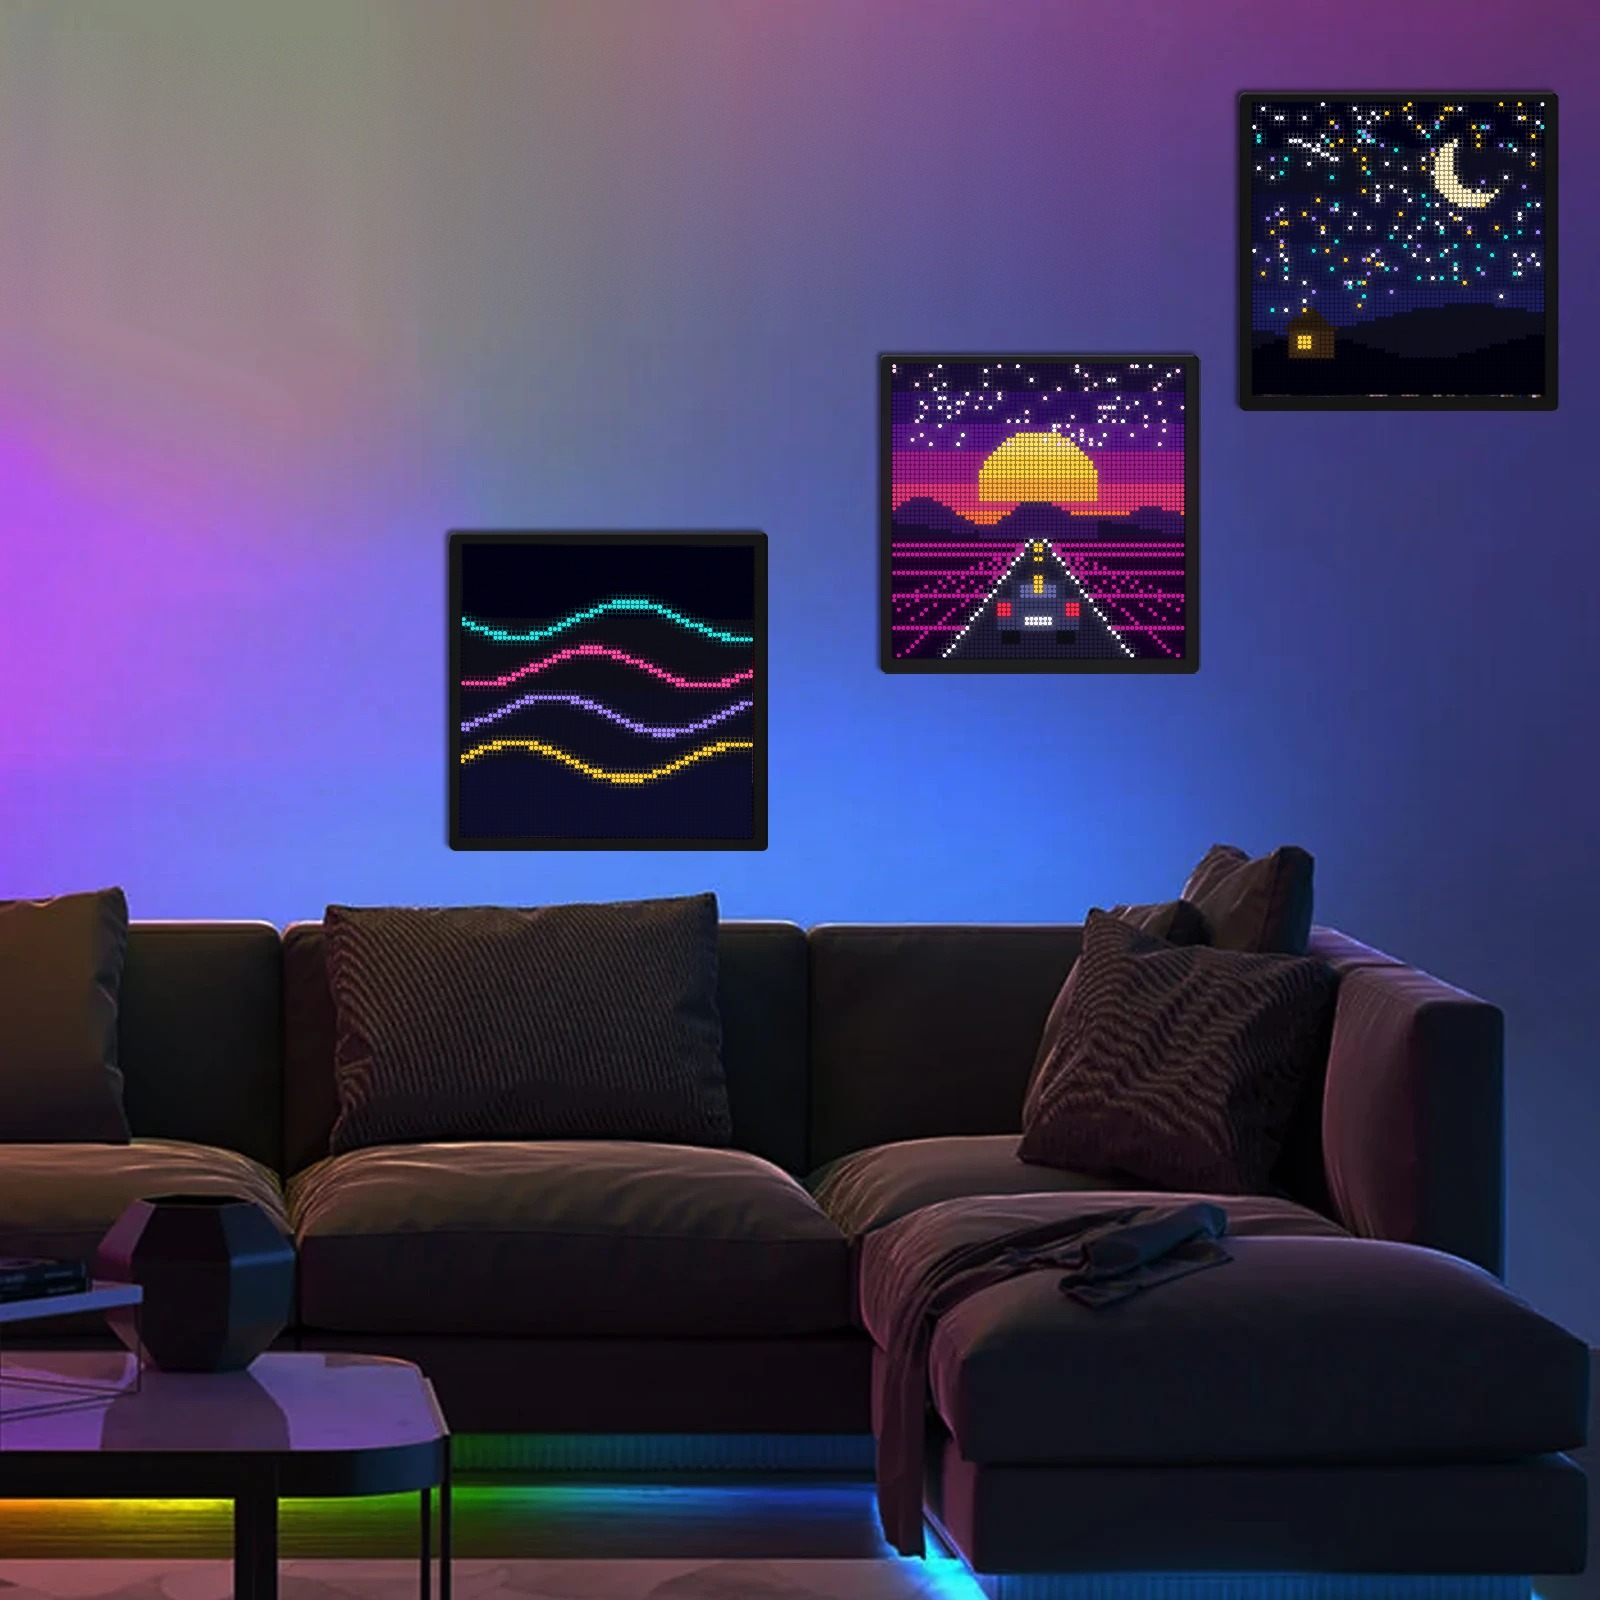
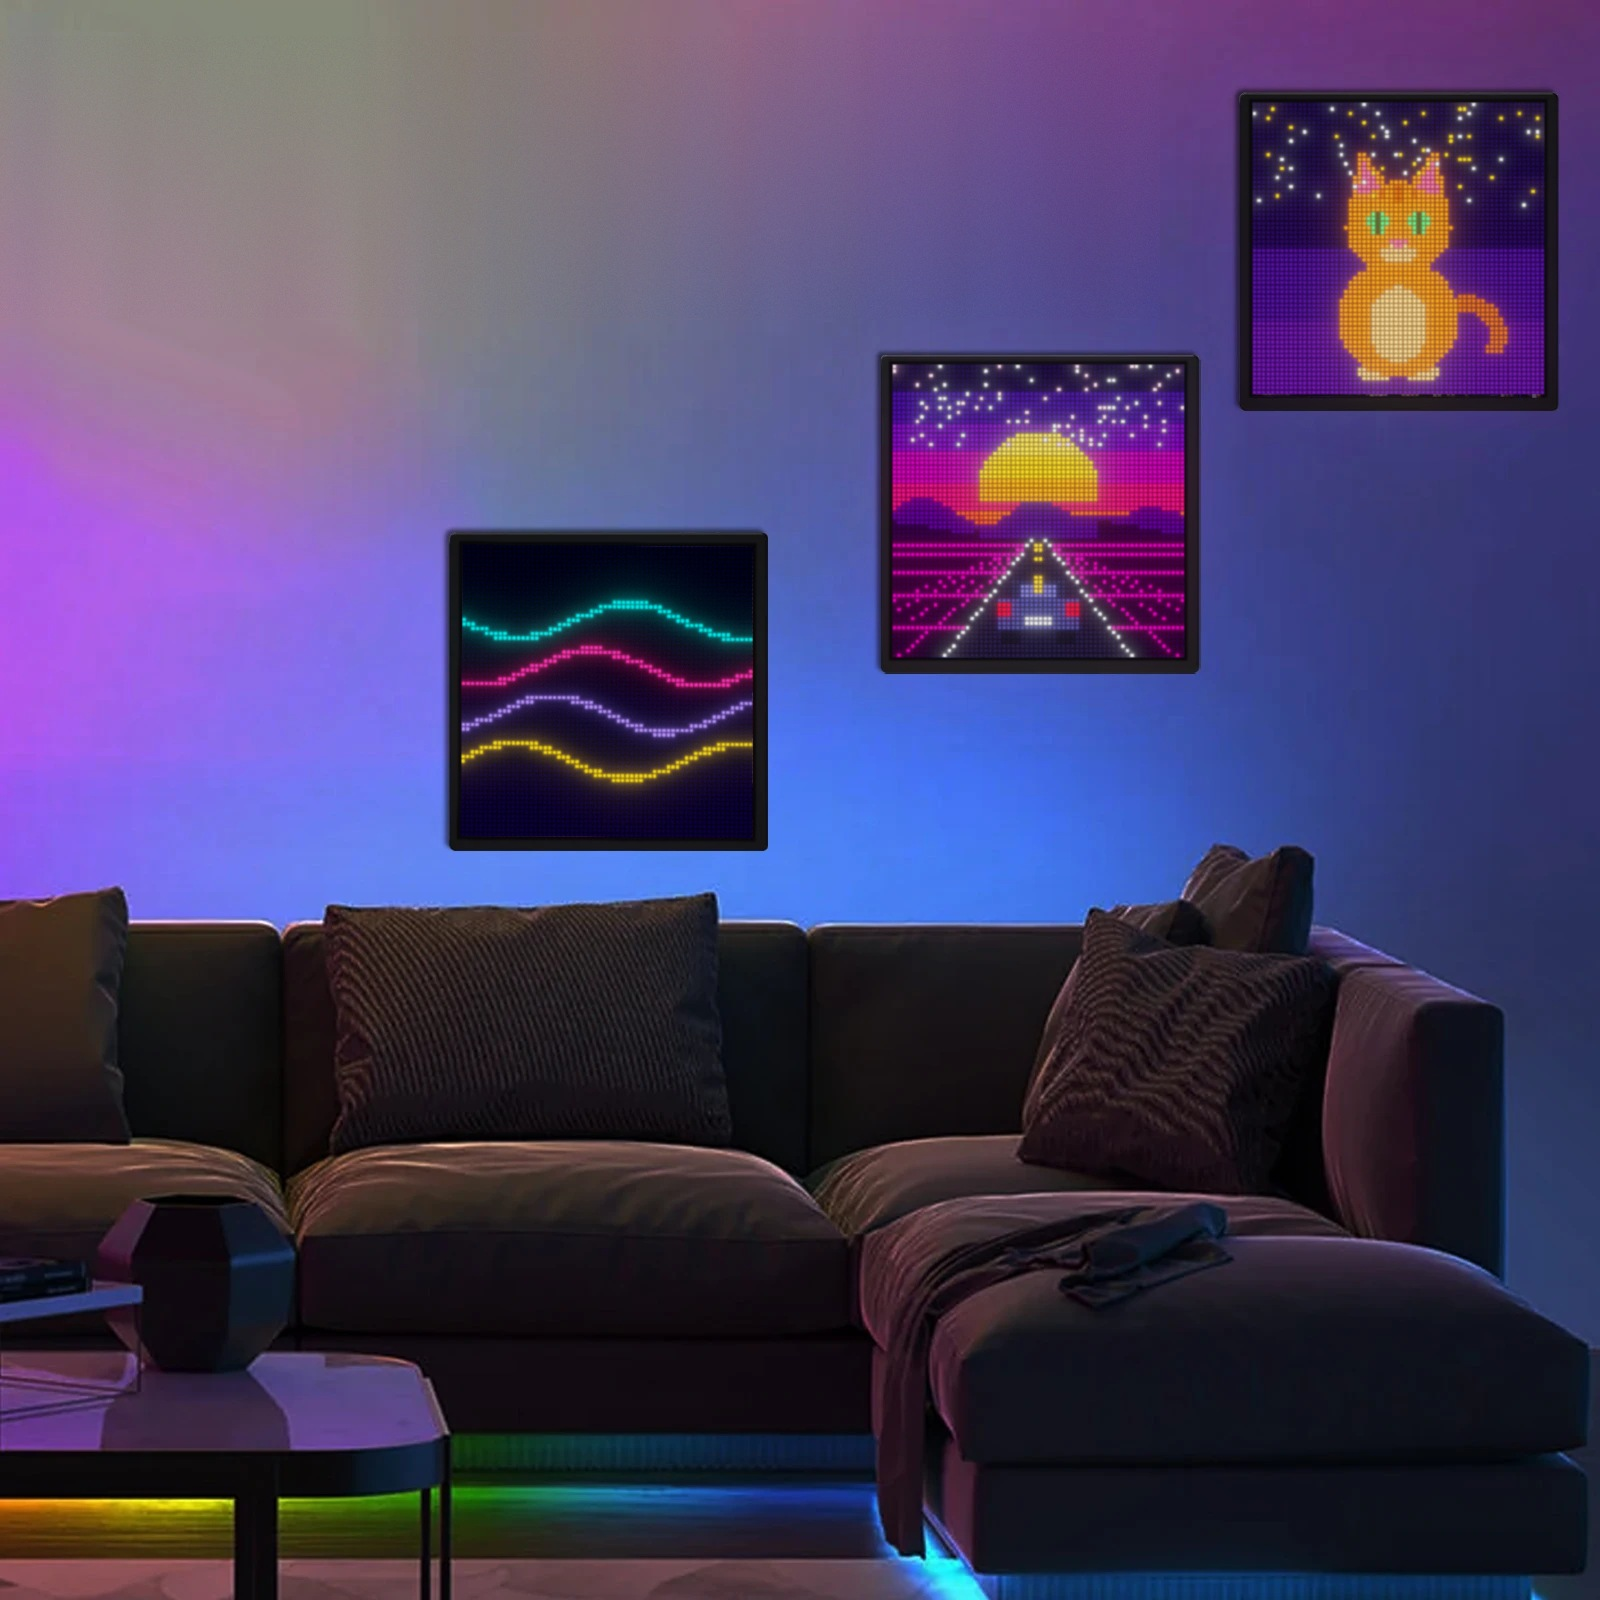
Photos produit plus réalistes et centrées
- Nouvelle simulation d'écran LED pour les photos : diodes carrées aux coins
  arrondis, cœur lumineux, halo, noirs profonds, reflet sur le plateau,
  raccord propre avec le cadre
- Photo du bureau et photo cadeau recadrées sur le cadre
- Galerie en format carré : les photos ne sont plus rognées
- Scripts de retouche versionnés dans scripts/visuels/

Claude-Session: https://claude.ai/code/session_014t2znUc2d5n2LE9vNfEYNB

Changed region(s): [[0.5312, 0.2188, 0.75, 0.4062], [0.7812, 0.0625, 0.9688, 0.25], [0.2812, 0.3438, 0.4688, 0.5]]

diff --git a/scripts/visuels/grilles.ts b/scripts/visuels/grilles.ts
@@ -1,0 +1,16 @@
+/* Exporte les couleurs LED de chaque scène (image fixe) pour scripts/visuels/led.py. */
+import { writeFileSync } from 'node:fs';
+import { join } from 'node:path';
+import { dessinerScene, NOMS_SCENES } from '../../src/lib/pixel/scenes.ts';
+
+const visibles = new Set(['alt-a', 'scint-1', 'scint-2', 'scint-3', 'clign', 'oeil-o']);
+const sortie: Record<string, (string | null)[][]> = {};
+for (const nom of NOMS_SCENES) {
+  for (const n of [32, 64] as const) {
+    const t = dessinerScene(nom, n);
+    const g = t.base.map((l) => [...l]);
+    for (const [anim, px] of t.calques) if (visibles.has(anim)) for (const [i, c] of px) g[Math.floor(i / n)]![i % n] = c;
+    sortie[`${nom}-${n}`] = g;
+  }
+}
+writeFileSync(join(import.meta.dirname, 'grilles.json'), JSON.stringify(sortie));

diff --git a/scripts/visuels/led.py b/scripts/visuels/led.py
@@ -1,0 +1,107 @@
+"""Simulation photographique d'un écran LED, puis incrustation dans une photo."""
+import json, cv2, numpy as np
+
+import os
+GRILLES = json.load(open(os.path.join(os.path.dirname(os.path.abspath(__file__)), 'grilles.json')))
+
+
+def _lin(c):
+    return np.where(c <= 0.04045, c / 12.92, ((c + 0.055) / 1.055) ** 2.4)
+
+
+def _srgb(c):
+    c = np.clip(c, 0, 1)
+    return np.where(c <= 0.0031308, c * 12.92, 1.055 * c ** (1 / 2.4) - 0.055)
+
+
+def couleurs(nom):
+    g = GRILLES[nom]
+    n = len(g)
+    arr = np.zeros((n, n, 3), np.float32)
+    for y, ligne in enumerate(g):
+        for x, c in enumerate(ligne):
+            if c:
+                arr[y, x] = [int(c[i:i + 2], 16) / 255 for i in (1, 3, 5)]
+    # Une LED allumée émet à pleine saturation : on pousse saturation et intensité
+    hsv = cv2.cvtColor(arr, cv2.COLOR_RGB2HSV)
+    allume = hsv[..., 2] > 0.02
+    hsv[..., 1] = np.where(allume, np.clip(hsv[..., 1] * 1.25, 0, 1), 0)
+    v = np.clip(hsv[..., 2], 0, 1)
+    # les tons vifs montent, les fonds sombres restent sombres (contraste d'un vrai écran)
+    hsv[..., 2] = np.where(allume, np.where(v > 0.35, v ** 0.75, v * 0.8), 0)
+    return cv2.cvtColor(hsv, cv2.COLOR_HSV2RGB)
+
+
+def noyau(cell):
+    """Diode carrée aux coins arrondis, plus chaude au centre."""
+    t = (np.arange(cell) + 0.5) / cell - 0.5
+    x, y = np.meshgrid(t, t)
+    d = (np.abs(x) ** 4 + np.abs(y) ** 4) ** 0.25
+    forme = np.clip((0.40 - d) / 0.05, 0, 1)
+    coeur = np.exp(-((x ** 2 + y ** 2) / 0.035))
+    return (0.8 * forme + 0.9 * coeur * forme)[..., None]
+
+
+def texture(nom, cell=24, gain=1.6):
+    c = _lin(couleurs(nom))
+    n = c.shape[0]
+    emission = np.kron(c, np.ones((cell, cell, 1), np.float32)) * np.tile(noyau(cell), (n, n, 1))
+    bloom = (
+        emission
+        + 0.30 * cv2.GaussianBlur(emission, (0, 0), cell * 0.35)
+        + 0.22 * cv2.GaussianBlur(emission, (0, 0), cell * 1.5)
+        + 0.12 * cv2.GaussianBlur(emission, (0, 0), cell * 5)
+    )
+    ton = 1 - np.exp(-gain * bloom)  # les LED très lumineuses tirent vers le blanc, comme sur une photo
+    return _srgb(ton)  # RGB 0..1
+
+
+def incruster(photo, quad, nom, halo=0.35, reflet=None, flou=0.6, bruit=2.0, graine=0, marge=0.006, anneau=0.012):
+    tex = (texture(nom)[..., ::-1] * 255).astype(np.float32)  # BGR
+    h, w = tex.shape[:2]
+    q = np.float32(quad)
+    cq = q.mean(0)
+    q = cq + (q - cq) * (1 + marge)
+    M = cv2.getPerspectiveTransform(np.float32([[0, 0], [w, 0], [w, h], [0, h]]), q)
+    H, W = photo.shape[:2]
+    ecran = cv2.warpPerspective(tex, M, (W, H), flags=cv2.INTER_AREA)
+    masque = cv2.warpPerspective(np.ones((h, w), np.float32), M, (W, H), flags=cv2.INTER_AREA)
+    masque = cv2.GaussianBlur(masque, (0, 0), 0.7)[..., None]
+    if flou:
+        ecran = cv2.GaussianBlur(ecran, (0, 0), flou)
+    base = photo.astype(np.float32)
+    # bande de raccord : efface les dernières LED d'origine sous le bord du cadre
+    q2 = cq + (q - cq) * (1 + marge + anneau)
+    M2 = cv2.getPerspectiveTransform(np.float32([[0, 0], [w, 0], [w, h], [0, h]]), q2)
+    large = cv2.warpPerspective(np.ones((h, w), np.float32), M2, (W, H), flags=cv2.INTER_AREA)
+    large = cv2.GaussianBlur(large, (0, 0), 1.0)[..., None]
+    bande = np.clip(large - masque, 0, 1)
+    base = base * (1 - bande) + base * 0.25 * bande
+    # le fond de l'écran est noir : on remplace entièrement la zone
+    sortie = base * (1 - masque) + ecran * masque
+    # lumière diffusée sur le cadre et l'environnement proche
+    taille = max(W, H)
+    diffus = cv2.GaussianBlur(ecran * masque, (0, 0), taille / 70) * 0.7 + cv2.GaussianBlur(ecran * masque, (0, 0), taille / 22) * 0.6
+    sortie += diffus * halo * (1 - masque)
+    # reflet sur le plateau sous le cadre (zone donnée par l'appelant)
+    if reflet is not None:
+        x0, y0, x1, y1, force = reflet
+        bas = ecran[int(q[:, 1].min()):int(q[:, 1].max())][::-1]
+        hh = min(y1 - y0, bas.shape[0])
+        r = cv2.GaussianBlur(bas[:hh, x0:x1], (0, 0), taille / 120)
+        fondu = np.linspace(1, 0, hh, dtype=np.float32)[:, None, None] ** 1.6
+        sortie[y0:y0 + hh, x0:x1] += r * fondu * force
+    rng = np.random.default_rng(graine)
+    sortie += rng.normal(0, bruit, sortie.shape) * masque
+    return np.clip(sortie, 0, 255).astype(np.uint8)
+
+
+def remplir_vertical(img, x0, y0, x1, y1, bruit=2.5, graine=1):
+    haut = img[max(0, y0 - 6):y0, x0:x1].astype(np.float32).mean(0)
+    bas = img[y1:y1 + 6, x0:x1].astype(np.float32).mean(0)
+    t = np.linspace(0, 1, y1 - y0)[:, None, None]
+    zone = haut[None] * (1 - t) + bas[None] * t
+    zone = cv2.GaussianBlur(zone, (0, 0), 6)
+    zone += np.random.default_rng(graine).normal(0, bruit, zone.shape)
+    img[y0:y1, x0:x1] = np.clip(zone, 0, 255).astype(np.uint8)
+    return img

diff --git a/scripts/visuels/composer.py b/scripts/visuels/composer.py
@@ -1,0 +1,30 @@
+"""
+Retouche des photos fournisseur du cadre (jamais publiées telles quelles) :
+recadrage, effacement du texte marketing, écran remplacé par une scène Lumipix
+simulée comme une vraie photo d'écran LED.
+
+  node scripts/visuels/grilles.ts && python3 scripts/visuels/composer.py
+Dépendances : pip install opencv-python-headless numpy
+"""
+import cv2, sys, os
+sys.path.insert(0, os.path.dirname(os.path.abspath(__file__)))
+from led import incruster, remplir_vertical
+ICI = os.path.dirname(os.path.abspath(__file__))
+R = os.path.join(ICI, '../../sources/fournisseur/cadre-pixel-art-led/')
+O = os.path.join(ICI, '../../assets/produits/cadre-pixel-art-led/')
+Q = [cv2.IMWRITE_JPEG_QUALITY, 93]
+img = cv2.imread(R + '4.jpeg')
+img = incruster(img, [[674,454],[1297,450],[1301,1067],[685,1071]], 'coucher-soleil-64', halo=0.25, reflet=(660, 1094, 1320, 1190, 0.10), marge=0.008)
+cv2.imwrite(O + '01-hero.jpg', img[397:1127, 620:1350], Q)
+img = cv2.imread(R + '3.jpeg')
+img = remplir_vertical(img, 0, 36, 1160, 318)
+for i, (quad, sc) in enumerate([([[463,545],[752,547],[751,837],[461,835]], 'vague-neon-64'), ([[893,365],[1183,365],[1183,656],[893,656]], 'coucher-soleil-64'), ([[1253,103],[1543,103],[1543,393],[1253,393]], 'chat-64')]):
+    img = incruster(img, quad, sc, halo=0.22, marge=0.008, graine=i, flou=0.8)
+cv2.imwrite(O + '02-ambiance.jpg', img, Q)
+img = cv2.imread(R + '2.jpeg')
+img = incruster(img, [[566,726],[1148,757],[995,1508],[409,1357]], 'coeur-64', halo=0.3, marge=0.008)
+cv2.imwrite(O + '03-cadeau.jpg', img[560:1600, 260:1300], Q)
+img = cv2.imread(R + '6.jpeg')
+img = incruster(img, [[251,195],[731,238],[716,716],[257,657]], 'horloge-64', halo=0.08, marge=0.01, flou=0.4, bruit=1.0)
+cv2.imwrite(O + '04-dimensions.jpg', img[105:835, 140:870], Q)
+print('ok')

diff --git a/README.md b/README.md
@@ -69,7 +69,7 @@ Aucune image fournisseur : tant que `assets/produits/[slug]/` est vide, les visu
 
 `assets/produits/cadre-pixel-art-led/` contient les visuels publiés : photos et vidéo du fournisseur retravaillées (texte marketing retiré, écrans remplacés par nos scènes originales, son supprimé). Les fichiers bruts sont dans `sources/fournisseur/`, qui n'est jamais servi par le site. La galerie précise que le contenu des écrans est simulé.
 
-Pour refaire un visuel : détecter les coins de l'écran, puis incruster une scène rendue en 1024 px (`src/lib/pixel/`) en perspective, avec un léger halo.
+Pour refaire les visuels : `node scripts/visuels/grilles.ts && python3 scripts/visuels/composer.py` (dépendances : `pip install opencv-python-headless numpy`). L'écran est simulé comme une vraie photo d'écran LED : diodes carrées aux coins arrondis, cœur lumineux, halo, noirs profonds, reflet sur le plateau.
 
 ## Brouillons et prévisualisation
 

diff --git a/src/content/produits/cadre-pixel-art-led.md b/src/content/produits/cadre-pixel-art-led.md
@@ -25,11 +25,11 @@ photos:
   - src: "01-hero.jpg"
     alt: "Cadre pixel art LED 64x64 posé sur un bureau, écran allumé sur un coucher de soleil rétro"
   - src: "02-ambiance.jpg"
-    alt: "Trois cadres LED pixel accrochés au mur d'un salon : vagues néon, coucher de soleil et ciel étoilé"
+    alt: "Trois cadres LED pixel accrochés au mur d'un salon : vagues néon, coucher de soleil et chat"
   - src: "03-cadeau.jpg"
     alt: "Écran pixel art affichant un cœur, posé près d'un sapin et de cadeaux"
   - src: "04-dimensions.jpg"
-    alt: "Dimensions du cadre 64x64 : 260 x 260 mm pour 17 mm d'épaisseur"
+    alt: "Dimensions du cadre 64x64 en mode horloge : 260 x 260 mm pour 17 mm d'épaisseur"
 videos:
   - src: "05-demo.mp4"
     alt: "Démonstration : retrait du film de protection, connexion à l'application, dessin envoyé en direct au cadre puis sapin pixel art"
